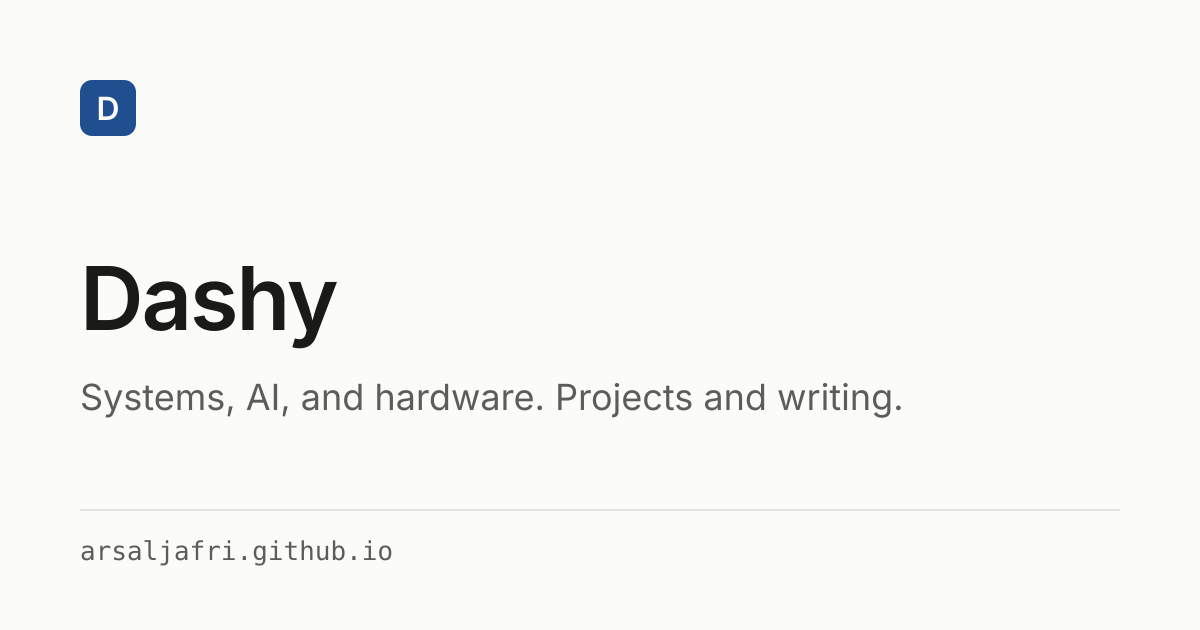
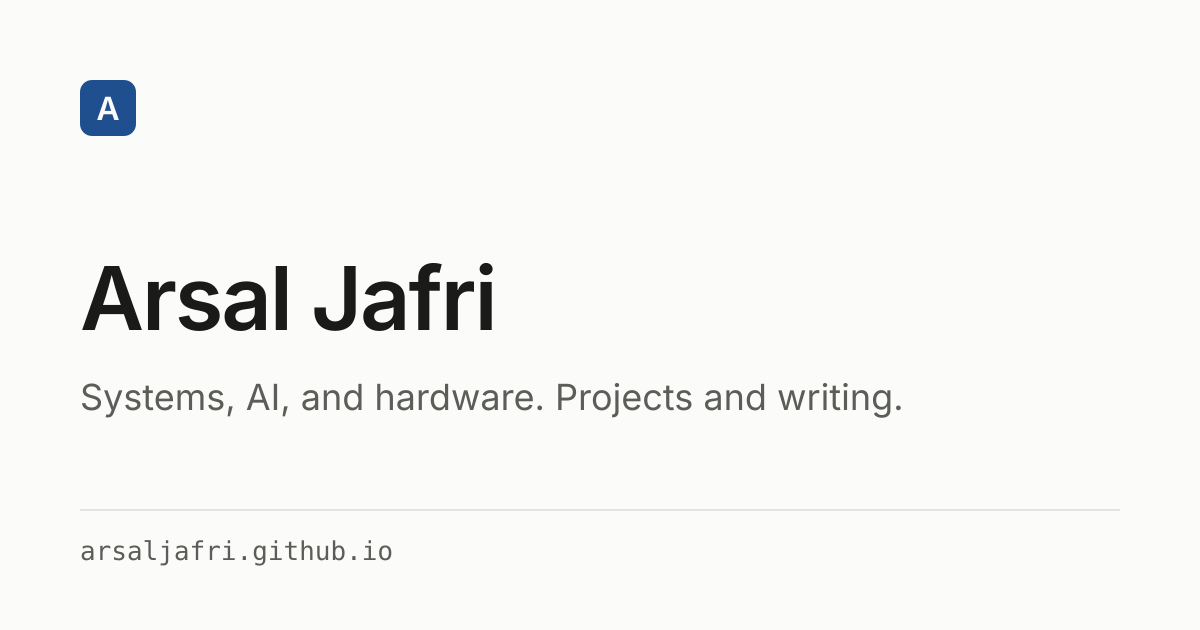
Use Arsal Jafri as the site name

Changed region(s): [[0.0617, 0.4222, 0.4317, 0.573], [0.0617, 0.1508, 0.1233, 0.181]]

diff --git a/src/site.config.ts b/src/site.config.ts
@@ -3,11 +3,11 @@
  * Leave a link as an empty string to hide it everywhere.
  */
 export const SITE = {
-  name: 'Dashy',
-  title: 'Dashy',
+  name: 'Arsal Jafri',
+  title: 'Arsal Jafri',
   tagline: 'I build software across systems, AI, and hardware, and write about what I learn.',
   description:
-    'Projects and writing by Dashy, a Computer Science student at the University of Houston building across systems, AI, and hardware.',
+    'Projects and writing by Arsal Jafri, a Computer Science student at the University of Houston building across systems, AI, and hardware.',
   links: {
     github: 'https://github.com/ArsalJafri',
     linkedin: '',
